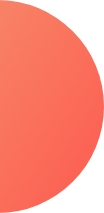
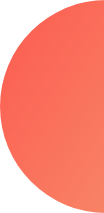
adding cholcei

diff --git a/style.css b/style.css
@@ -46,19 +46,27 @@ h3{
     background-repeat: no-repeat;
     background-position: right;
 }
-.experience-area{
-    background-image: url(images/exp-bg.png);
-    background-repeat: no-repeat;
-    background-position: left;
-}
 .experience-item{
     width: 40%;
     margin-left: 5%;
     margin-right: 5%;
     padding-left: 20px;
-    border-radius: 10%;
+    border-radius: 5%;
     box-shadow: 10px 10px 40px gray;
 }
-#full-stack-dev{
-    border-left: ;
+#web-dev-experience{
+   border-left: 7px solid;
+   border-image: linear-gradient(blue, cyan);
+   border-image-slice: 1;
+   background-image: url(images/exp-bg.png);
+   background-repeat: no-repeat;
+   background-position: right;
+}
+#full-stack-experience{
+    border-left: 7px solid;
+   border-image: linear-gradient(salmon, tomato);
+   border-image-slice: 1;
+   background-image: url(images/exp-bg.png);
+   background-repeat: no-repeat;
+   background-position: right;
 }

diff --git a/index.html b/index.html
@@ -46,7 +46,7 @@
     <section class="experience-area">
         <h1>Experiences</h1>
         <div class="flexible-container">
-            <div id="full-stack-dev" class="experience-item">
+            <div id="full-stack-experience" class="experience-item">
                 <h2>Full Stack Web Developer</h2>
                 <h3 class="orange-color">2024-present | Pro Level Developer</h3>
                 <p>I'm the master of HTML, CSS, Bootstrip, Javascript. Have a vast experiences that mentioned above. I
@@ -55,7 +55,7 @@
                     motion.</p>
             </div>
 
-            <div class="experience-item">
+            <div id="web-dev-experience" class="experience-item">
                 <h2>Baby web Developer</h2>
                 <h3 class="orange-color">2022-2024 | Hero Learner</h3>
                 <p>I have learned web developing from the reknowned intitution "Programming Hero". </p>
